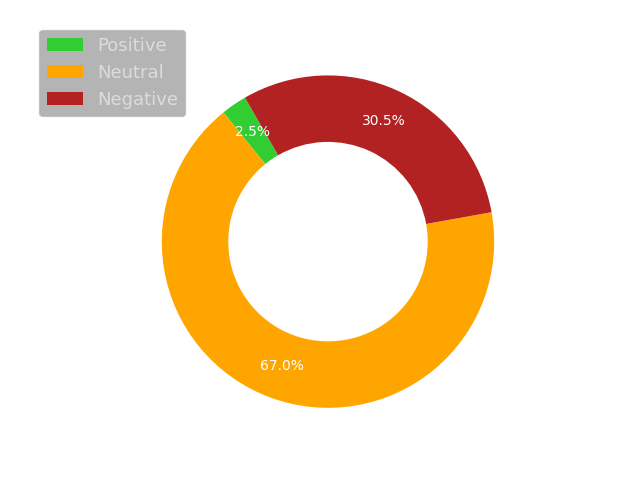
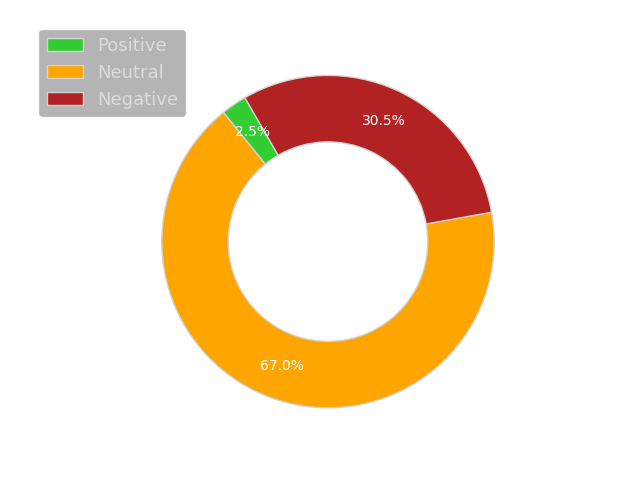
improved visuals of pie chart

diff --git a/src/sentiment_analysis.py b/src/sentiment_analysis.py
@@ -43,10 +43,6 @@ for index, trend in enumerate(trends):
         elif pos == neg:
             neutral_tweets += 1
 
-    #print(neutral_tweets)
-    #print(positive_tweets)
-    #print(negative_tweets)
-
     # creating and saving Pie Chart
     percentage_positive = positive_tweets/200
     percentage_neutral = neutral_tweets/200
@@ -57,7 +53,15 @@ for index, trend in enumerate(trends):
     sizes = [percentage_positive, percentage_neutral, percentage_negative]
 
     fig, ax = plt.subplots()
-    wedges, text, autotext =  ax.pie(sizes, colors=colors, autopct='%1.1f%%', textprops=dict(color='white'), pctdistance = 0.8, startangle=120)
+    wedges, text, autotext =  ax.pie(sizes,
+          colors=colors,
+          autopct='%1.1f%%',
+          textprops=dict(color='white'),
+          wedgeprops = dict(width = 0.7,
+          edgecolor = 'lightgray'),
+          pctdistance = 0.8,
+          startangle=120)
+
     plt.setp(wedges, width = 0.40)
     fig.set_facecolor('darkblue')
     ax.axis('equal')
@@ -70,6 +74,8 @@ for index, trend in enumerate(trends):
           facecolor = 'dimgray',
           edgecolor = 'darkgray',
           framealpha = 0.5)
+
+    # change color of legend text      
     for text in legend.get_texts():
         text.set_color('gainsboro')
 
